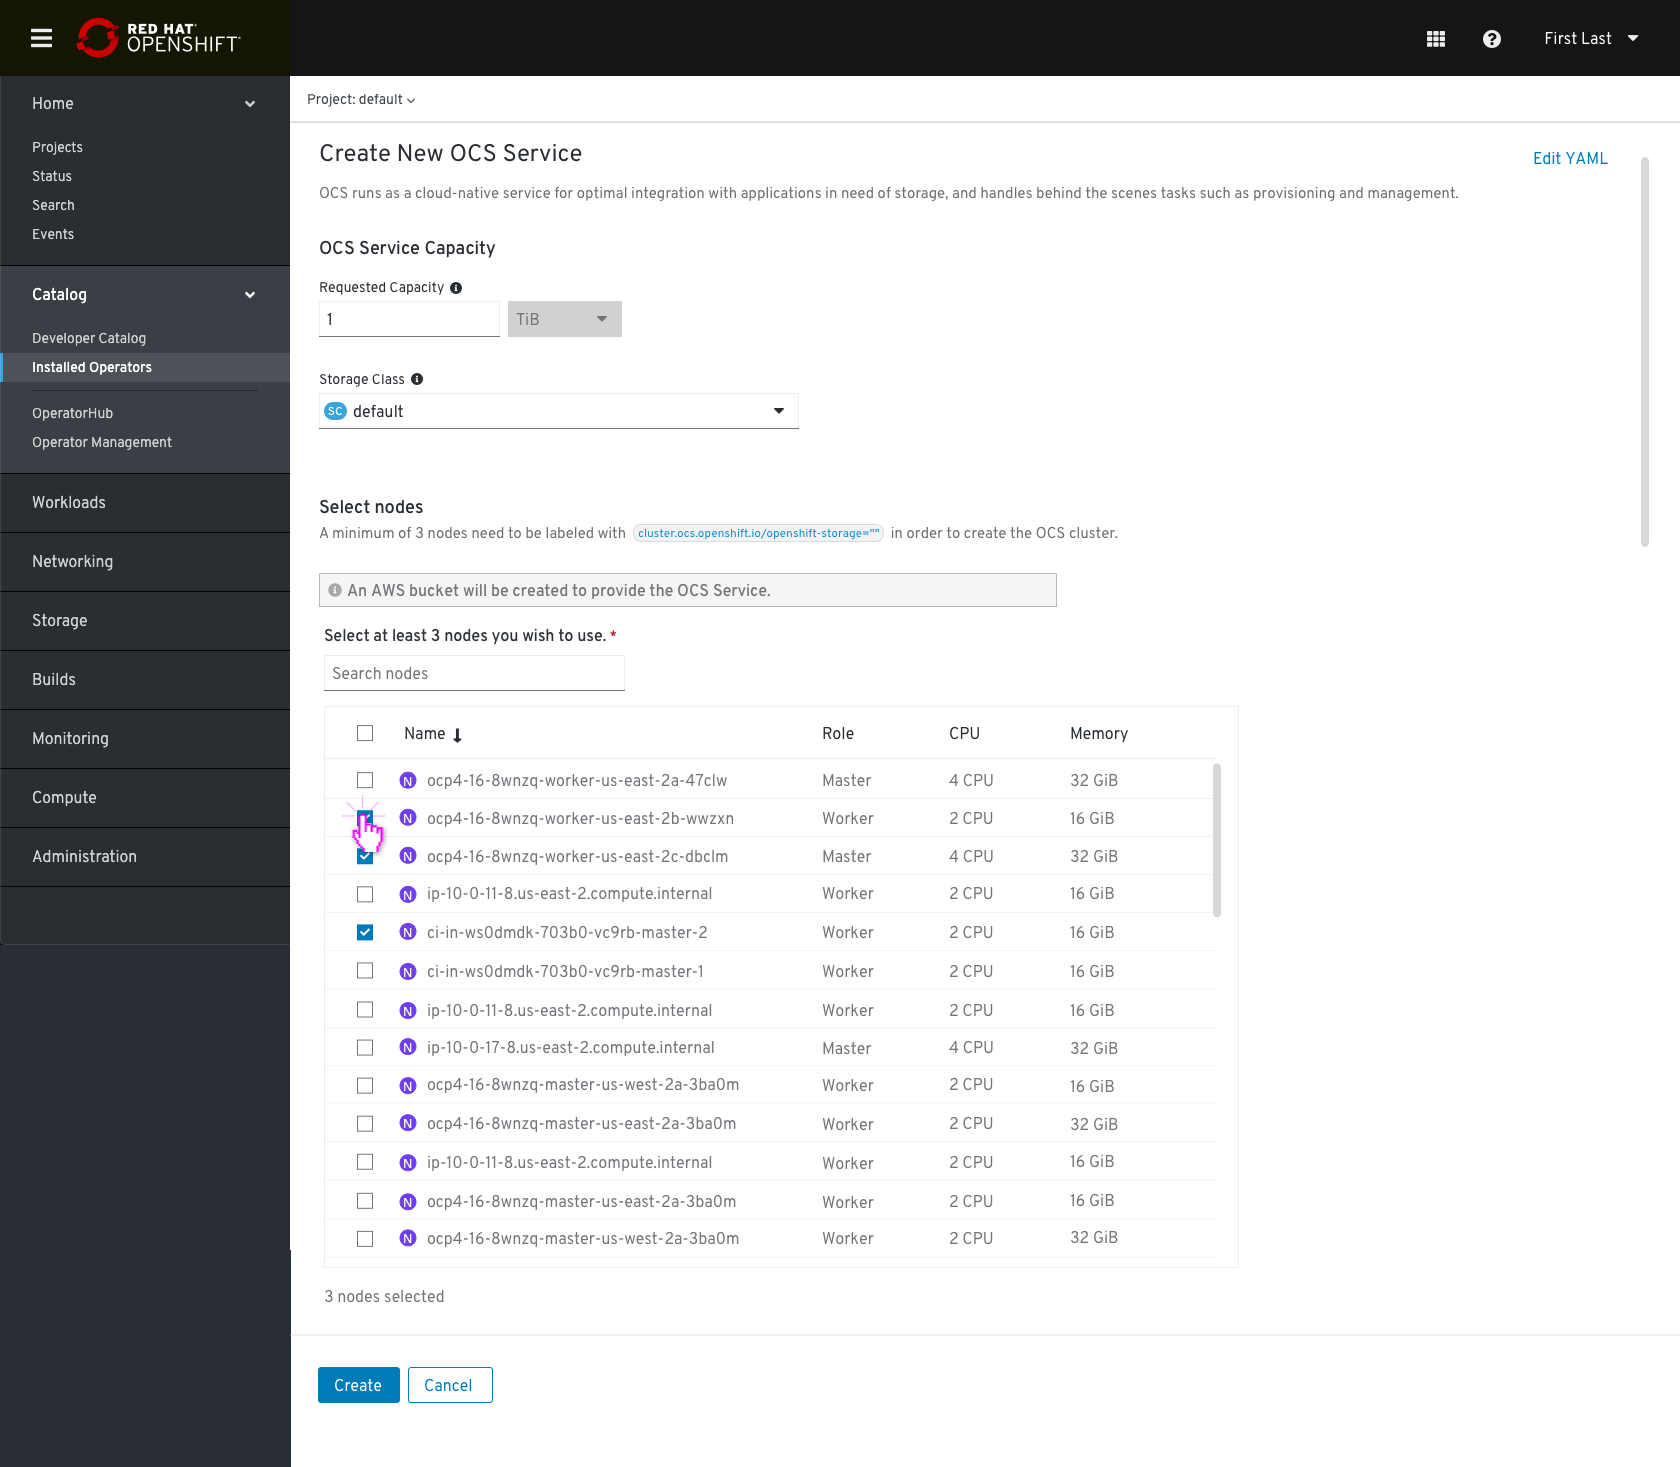
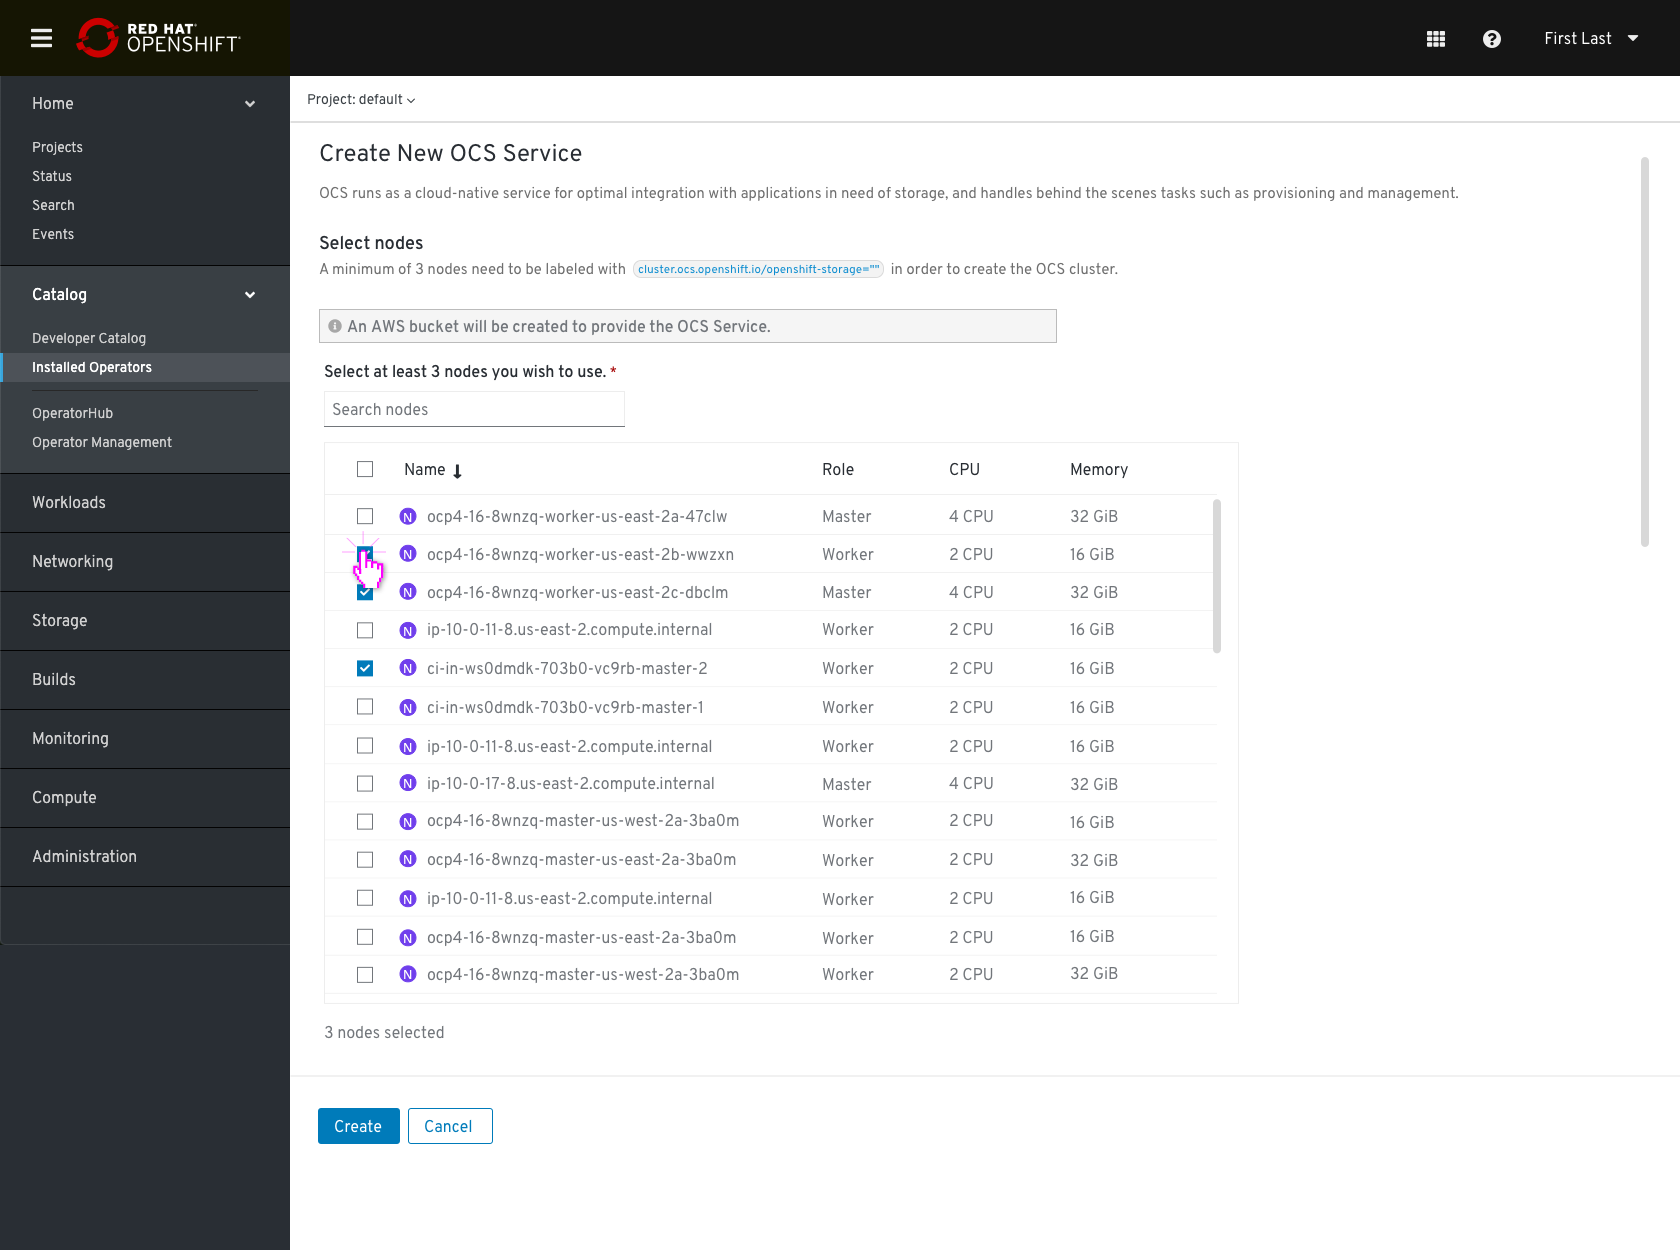
Defer capacity size from 4.2
Removed capacity and storage class fields for 4.2 implementation.

diff --git a/web-console/Storage/OCS/OCS _Installation_Workflow.md b/web-console/Storage/OCS/OCS _Installation_Workflow.md
@@ -35,18 +35,15 @@ Admin needs to select at least 3 nodes (depends on the requested capacity input)
 Select/unselect all nodes, and exclude master nodes (e.g. based on roles)
     * Non-master nodes of a certain flavor (CPU and memory)
     * Nodes with a certain name prefix or string within the node name
+
+### Defer from 4.2:
 * Capacity will default to 1 TiB, and user cannot modify value to be less than 1 TiB. Only TiB, PiB, and units above TiB supported. GiB and MiB are not permitted.
 * Number of nodes depends on the requested capacity input.  If requested capacity is > 5 TiB, then Additional nodes must be added.
 * Storage class will default to the default storage class, but user can overwrite the selection.  Note: The storage classes shown will be pre-filtered to the storage classes backed by the infrastructure supported provisioner(s).
-
     * Storage Class “Info tip” -- The Storage Class will be used to request storage from the underlying infrastructure to create the backing persistent volumes that will be used to provide the OpenShift Container Storage (OCS) service.
 
 ![create new](img/Create_new_OCS_00.png)
 ![use existing](img/Create_new_OCS_01.png)
-
-If the Admin specify for example 6 TiB, 1 more node needs to be selected (in addition to the min 3 selected), thus at least 4 nodes are needed.
-In this case the label "Select at least X nodes you wish to use." and "a minimum of X nodes..." should be changed accordingly.
-![use existing](img/Create_new_OCS_01_Additional_nodes.png)
 
 
 For AWS deployment: A new bucket will be created automatically in AWS S3 connected cloud, in the same region as the OpenShift. 
